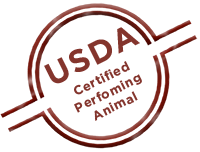
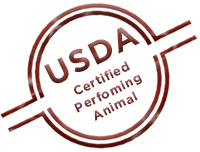
changes USDA badge

diff --git a/_includes/css/agency.css b/_includes/css/agency.css
@@ -946,16 +946,17 @@ header {
   margin: auto;
   -webkit-backface-visibility: hidden;
 }
+@media all and (min-width:760px) {
 .stamp {
   position: absolute;
   top:40px;
   left:20px;
-  height:300px;
-  width:300px;
+  height:400px;
+  width:310px;
 }
 .stamp:after {
   color: #d00;
-  content: url("http://luke-holly.github.io/Sampson-the-Longhorn-Website/img/USDA-badge.png");
+  content: url("http://luke-holly.github.io/Sampson-the-Longhorn-Website/img/USDA-badge-large.png");
   font-size: 16px;
   font-weight: bold;
   line-height: 1;
@@ -979,6 +980,7 @@ header {
   transform: rotate(0deg) scale(1);
   z-index: 100;
 }
+}
 @font-face {
   font-family: 'strong';
   src: url('http://luke-holly.github.io/Sampson-the-Longhorn-Website/Langdon.otf');
@@ -986,4 +988,5 @@ header {
 #muscle {
   color:#ce2525;
   font-family: 'strong';
+  font-size:150px;
 }
